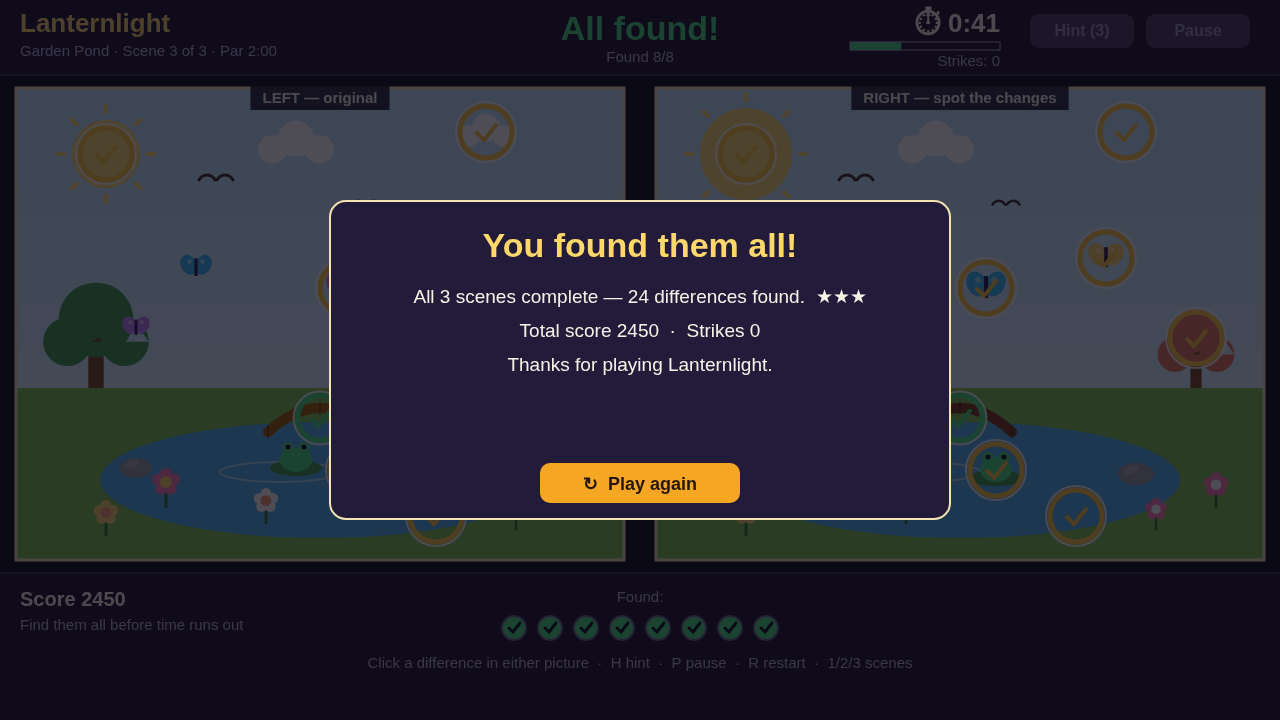
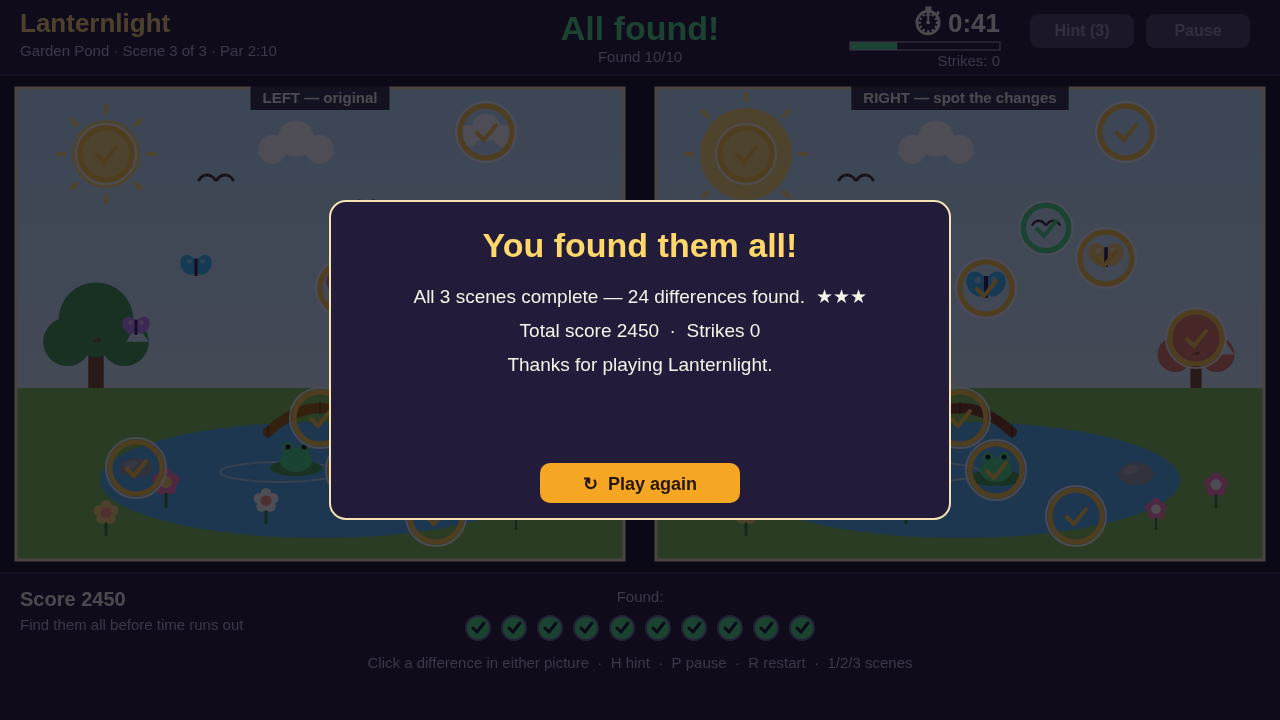
V3: difficulty ramp 6/8/10 differences, tighter pars 75/100/130, dynamic counts

diff --git a/game/src/render.js b/game/src/render.js
@@ -739,15 +739,15 @@ export function drawLanternlightOverlay(ctx, state) {
   const scene = state.scene;
   if (state.phase === 'title') {
     return drawLanternlightCard(ctx, 'Lanternlight', [
-      'Spot the difference — two pictures, eight changes.',
-      'Click a change in either picture. Find all 8 before time runs out.',
-      'Three scenes: Harbour at Dusk, Night Market, Garden Pond.',
+      'Spot the difference — two pictures, changes hiding in the right one.',
+      'Click a change in either picture. Find them all before time runs out.',
+      'Three scenes, rising difficulty: Harbour at Dusk, Night Market, Garden Pond.',
     ], [{ id: 'start', label: '▶  Start playing' }]);
   }
   if (state.phase === 'scene-complete') {
     const stars = state.strikes === 0 && state.timeLeftMs > 30000 ? '★★★' : state.strikes <= 1 ? '★★' : '★';
     return drawLanternlightCard(ctx, 'Scene complete!', [
-      `${scene.name} — all 8 differences found.  ${stars}`,
+      `${scene.name} — all ${scene.differences.length} differences found.  ${stars}`,
       `Scene score ${state.sceneScore}  ·  Total score ${state.score}`,
       state.sceneIndex < 2 ? 'A harder scene is waiting.' : 'That was the last scene!',
     ], state.sceneIndex < 2
@@ -755,16 +755,17 @@ export function drawLanternlightOverlay(ctx, state) {
       : [{ id: 'finish', label: 'See my results' }]);
   }
   if (state.phase === 'victory') {
+    const total = state.scenes.reduce((n, s) => n + s.differences.length, 0);
     return drawLanternlightCard(ctx, 'You found them all!', [
-      `All 3 scenes complete — 24 differences found.  ★★★`,
+      `All 3 scenes complete — ${total} differences found.  ★★★`,
       `Total score ${state.score}  ·  Strikes ${state.strikes}`,
       'Thanks for playing Lanternlight.',
     ], [{ id: 'again', label: '↻  Play again' }]);
   }
   if (state.phase === 'time-up') {
     return drawLanternlightCard(ctx, "Time's up!", [
-      `${scene.name} — you found ${state.found.filter(Boolean).length} of 8 differences.`,
-      'The eight changes are still hiding in the right picture.',
+      `${scene.name} — you found ${state.found.filter(Boolean).length} of ${scene.differences.length} differences.`,
+      'The changes are still hiding in the right picture.',
     ], [{ id: 'retry', label: '↻  Try this scene again' }]);
   }
   if (state.phase === 'paused') {

diff --git a/game/src/scenes.js b/game/src/scenes.js
@@ -8,7 +8,7 @@
 export const LANTERNLIGHT_SCENES = [
   {
     name: 'Harbour at Dusk',
-    parSeconds: 90,
+    parSeconds: 75,
     sky: ['#ffd9a0', '#ff9d76'],
     groundY: 360,
     ground: '#f2d8a7',
@@ -41,14 +41,12 @@ export const LANTERNLIGHT_SCENES = [
       { x: 322, y: 110, obj: 4, change: { x: 322, y: 110 } },
       { x: 64, y: 235, obj: 5, change: { stripe: '#2e7f9e' } },
       { x: 252, y: 390, obj: 7, change: { roof: '#e07856' } },
-      { x: 432, y: 300, obj: 9, change: { sail: '#ffd76a' } },
       { x: 302, y: 338, obj: 12, change: { hide: true } },
-      { x: 480, y: 318, add: { k: 'fish', x: 480, y: 318, s: 0.9, c: '#4ade80' } },
     ],
   },
   {
     name: 'Night Market',
-    parSeconds: 105,
+    parSeconds: 100,
     sky: ['#2b1d4e', '#4c2a6b'],
     groundY: 380,
     ground: '#3a2a4a',
@@ -87,7 +85,7 @@ export const LANTERNLIGHT_SCENES = [
   },
   {
     name: 'Garden Pond',
-    parSeconds: 120,
+    parSeconds: 130,
     sky: ['#bfe8ff', '#e8f9ff'],
     groundY: 300,
     ground: '#7ec850',
@@ -124,6 +122,8 @@ export const LANTERNLIGHT_SCENES = [
       { x: 540, y: 250, obj: 6, change: { leaf: '#e07856' } },
       { x: 450, y: 170, add: { k: 'butterfly', x: 450, y: 170, s: 0.9, c: '#ffd76a' } },
       { x: 304, y: 330, obj: 16, change: { c: '#7c3f16' } },
+      { x: 120, y: 380, obj: 14, change: { c: '#7c6a55' } },
+      { x: 390, y: 140, obj: 4, change: { x: 390, y: 140 } },
     ],
   },
 ];

diff --git a/game/src/shots.js b/game/src/shots.js
@@ -6,15 +6,15 @@
 import { startLanternlightScene } from './engine.js';
 
 const LANTERNLIGHT_SHOT_PRESETS = {
-  // The cover: scene 1 mid-hunt — five differences found (gold rings on both
+  // The cover: scene 1 mid-hunt — three differences found (gold rings on both
   // panels), three still hiding, counter and timer big and readable.
-  cover: { scene: 0, found: [0, 1, 2, 3, 4], secondsLeft: 72, phase: 'play', score: 540 },
+  cover: { scene: 0, found: [0, 1, 2], secondsLeft: 58, phase: 'play', score: 320 },
   // Scene 2 mid-hunt, three found.
   market: { scene: 1, found: [0, 1, 2], secondsLeft: 95, phase: 'play', score: 310 },
   // Scene 3 nearly done, six found, clock running low.
   garden: { scene: 2, found: [0, 1, 2, 3, 4, 5], secondsLeft: 48, phase: 'play', score: 650 },
   // The victory card after all three scenes.
-  win: { scene: 2, found: [0, 1, 2, 3, 4, 5, 6, 7], secondsLeft: 41, phase: 'victory', score: 2450 },
+  win: { scene: 2, found: [0, 1, 2, 3, 4, 5, 6, 7, 8, 9], secondsLeft: 41, phase: 'victory', score: 2450 },
   // The title screen.
   start: { scene: 0, found: [], secondsLeft: 90, phase: 'title', score: 0 },
 };

diff --git a/README.md b/README.md
@@ -4,7 +4,7 @@
 [![rank](https://make.fun/badge/best-spot-the-difference-game-20261121-0451/feru-art/lanternlight-spot-the-difference/rank.svg)](https://make.fun/bounty/best-spot-the-difference-game-20261121-0451/leaderboard?utm_source=github&utm_medium=readme&utm_campaign=best-spot-the-difference-game-20261121-0451)
 [![reward](https://make.fun/badge/best-spot-the-difference-game-20261121-0451/feru-art/lanternlight-spot-the-difference/reward.svg)](https://make.fun/bounty/best-spot-the-difference-game-20261121-0451?utm_source=github&utm_medium=readme&utm_campaign=best-spot-the-difference-game-20261121-0451)
 
-Lanternlight — Spot the Difference: a complete spot-the-difference game in static files. Two near-identical pictures side by side, eight fair differences per scene, three original scenes (Harbour at Dusk, Night Market, Garden Pond), found markers with a satisfying ring, hints, a countdown you can feel, combo scoring and a victory screen. Click a difference in either picture — keyboard: H hint, P pause, R restart, 1/2/3 scenes.
+Lanternlight — Spot the Difference: a complete spot-the-difference game in static files. Two near-identical pictures side by side, six to ten fair differences per scene with rising difficulty, three original scenes (Harbour at Dusk, Night Market, Garden Pond), found markers with a satisfying ring, hints, a countdown you can feel, combo scoring and a victory screen. Click a difference in either picture — keyboard: H hint, P pause, R restart, 1/2/3 scenes.
 
 ## Run it
 
